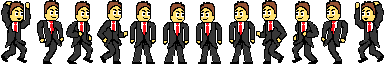
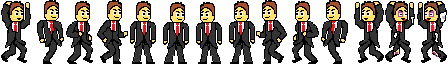
add corpse animation

diff --git a/js/player.js b/js/player.js
@@ -6,8 +6,9 @@ var jumpButton;
 var prevPos;
 var playerFootHit;
 var playerDamageInterval = 0;
-var startHp = 1000;
+var startHp = 1;
 var hp = startHp;
+var playerDead = false;
 
 function createPlayer() {
      // The player and its settings
@@ -36,12 +37,14 @@ function updatePreviousPos(player)
     prevPos = new Phaser.Point(player.x, player.y);
 }
 
-function fight(x,y) {
-    if (discover == "right") {
-        playerFootHit = game.add.sprite(x + 32, y+32, 'enemyBullet');
-    } else {
-        playerFootHit = game.add.sprite(x - 32, y+32, 'enemyBullet');
-    };
+function fight(x,y) 
+{
+    playerFootHit = game.add.sprite(
+                        discover == "right" ? x : x -32, 
+                        y, 
+                        'playerFoot');
+    player.animations.stop();
+    playerFootHit.frame = discover == "right" ? 0 : 1;
   
     game.physics.arcade.enable(playerFootHit);
     
@@ -50,10 +53,12 @@ function fight(x,y) {
         playerFootHit = null;
     }, 50)
 }
+
 var discover = "right";
 var jumpTimer = 0;
 function keyPlayer(hitPlatform) 
 {
+    if (playerDead) return;
     //  Reset the players velocity (movement)
     player.body.velocity.x = 0;
     if (cursors.left.isDown)
@@ -91,6 +96,12 @@ function keyPlayer(hitPlatform)
         player.frame = discover == "right" ? 0 : 11;
     }
 
+    if (playerFootHit != null)
+    {
+        player.animations.stop();
+        player.frame = discover == "right" ? 1 : 10;
+    }
+
     //  Allow the player to jump if they are touching the ground.
     if (cursors.up.isDown && player.body.onFloor() && game.time.now > jumpTimer)
     {
@@ -116,6 +127,8 @@ function keyPlayer(hitPlatform)
 
 function updatePlayer(enemies)
 {
+    if (playerDead) return;
+
     if (playerDamageInterval <= 0)
     {
         player.visible = true;
@@ -151,8 +164,16 @@ function hitPlayer()
     hp -= 1;
     if (hp <= 0)
     {
-        restart();
+        var playerCorpse = new Corpse(
+                                player.x, player.y, 
+                                discover == "right" ? 1 : -1, 
+                                'player', 
+                                discover == "right" ? 12 : 13);
+        corpses.push(playerCorpse);
+
+        playerDead = true;
+        player.kill();
     }
     else
-    playerDamageInterval = 50;
+        playerDamageInterval = 50;
 }

diff --git a/main.html b/main.html
@@ -13,6 +13,7 @@
     <script src="js/flyingEnemy.js"></script>
     <script src="js/enemyFactory.js"></script>
     <script src="js/heavyEnemy.js"></script>
+    <script src="js/corpse.js"></script>
     <style type="text/css">
         body {
             margin: 0;
@@ -23,6 +24,12 @@
 
 <script type="text/javascript">
 var game = new Phaser.Game(640, 480, Phaser.AUTO, '', { preload: preload, create: create, update: update, render: render });
+
+var bullets;
+var friendBullets;
+var enemies;
+var deadEnemies;
+var corpses;
 
 function preload() {
     game.load.image('background', 'assets/level1Background.png');
@@ -38,13 +45,21 @@ function preload() {
     game.load.image('heavyEnemyHelmet', 'assets/heavyEnemyHelmet.png');
     game.load.tilemap('level1', 'assets/level1.json', null, Phaser.Tilemap.TILED_JSON);
     game.load.image('tiles-1', 'assets/tiles-1.png');
+    game.load.spritesheet('playerFoot', 'assets/hit.png', 64, 64);
 }
 var player;
 var map;
 var tileset;
 var layer;
-function create() {
-
+function create() 
+{
+	bullets = []
+	friendBullets = [];
+	enemies = [];
+	deadEnemies = [];
+	corpses = [];
+	hp = startHp;
+	playerDead = false;
 
     //  A simple background for our game
     bg = game.add.tileSprite(0, 0, 640,480, 'background');
@@ -90,7 +105,9 @@ function create() {
     	create.heavyOn(32, 86).thatMovesOn(32, 192).withHelmet(),
     	];
 }
+
 var score = 0;
+
 function update() 
 {
     game.physics.arcade.collide(moneys, layer);
@@ -108,14 +125,37 @@ function update()
 	updateFriendBullets(friendBullets, enemies);
 	updatePlayer(enemies);
 	updatePreviousPos(player);
+
+	updateCorpses();
+}
+
+function updateCorpses()
+{
+	var i = 0;
+	while (i < corpses.length)
+	{
+		var corpse = corpses[i];
+
+		var bottomPos = game.camera.view.y + game.camera.view.height
+
+		var needKill = corpse.sprite.y > bottomPos;
+		if (needKill)
+		{
+			if (corpse.sprite.key == 'player')
+			{
+				restart();
+			}
+
+			corpse.sprite.kill();
+			corpses.splice(i, 1);
+			console.log('dead');
+		}
+		else i += 1;
+	}
 }
 
 function restart()
 {
-	bullets = []
-	friendBullets = [];
-	enemies = [];
-	hp = startHp;
 	create();
 }
 

diff --git a/js/fight.js b/js/fight.js
@@ -27,6 +27,13 @@ function killEnemy(enemy)
 	if (enemy.isHeavy)
     	killHeavyEnemy(enemy);
 
+    var corpse = new Corpse(
+    					enemy.sprite.x, enemy.sprite.y, 
+    					enemy.direction, 
+    					enemy.sprite.key, 
+    					0);
+    corpses.push(corpse);
+
     enemy.sprite.kill();
     enemy.isAlive = false;
 }

diff --git a/js/corpse.js b/js/corpse.js
@@ -1,0 +1,12 @@
+var CorpseSpeed = 30;
+
+Corpse = function(x, y, direction, spriteName, frame)
+{
+	this.sprite = game.add.sprite(x, y, spriteName);
+	game.physics.arcade.enable(this.sprite);
+	this.sprite.frame = frame;
+
+	this.direction = -1;
+	this.sprite.body.velocity.y = -150;
+	this.sprite.body.gravity.y = 300;
+}
